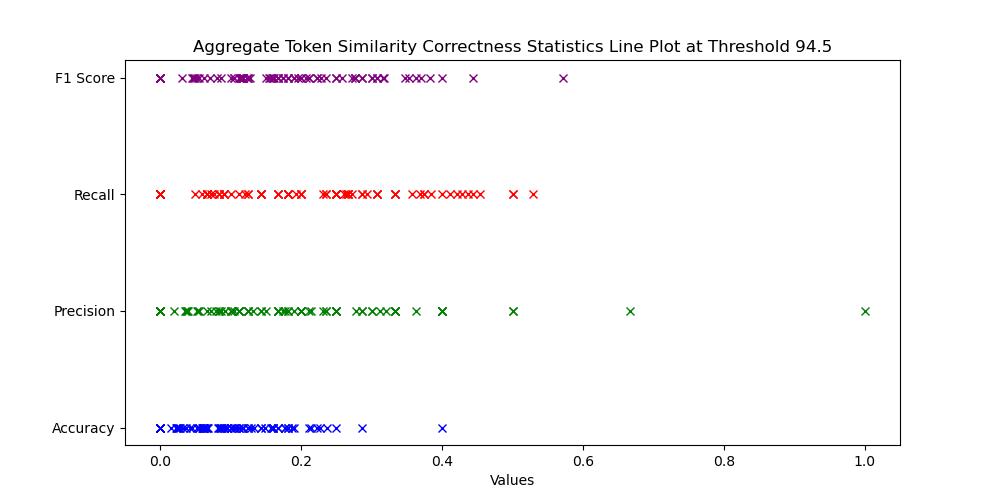
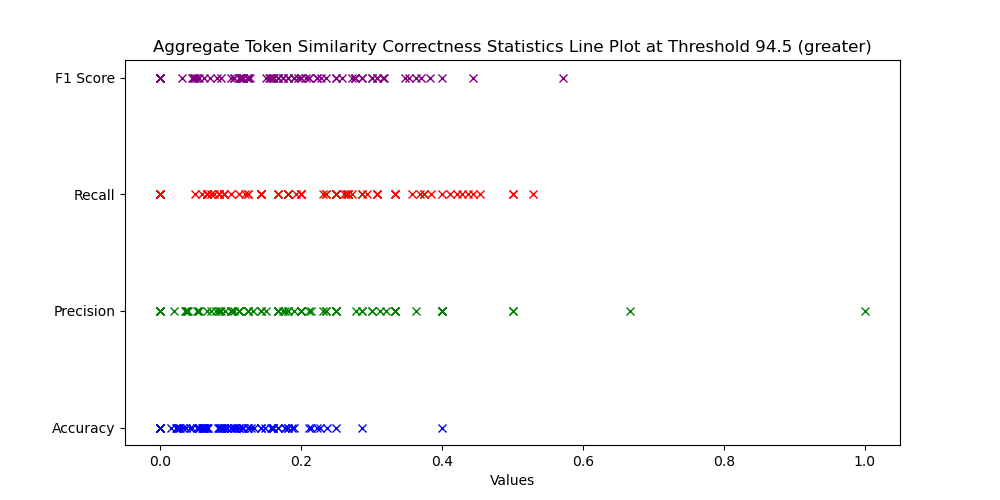
reformatting

Changed region(s): [[0.155, 0.06, 0.868, 0.12]]

diff --git a/plot_results.py b/plot_results.py
@@ -133,7 +133,7 @@ def plot_token_similarity(alg_num_threshold, alg_direction):
     # Plot box plot
     fig, ax = plt.subplots(figsize=(10, 5))
     ax.bxp(box_plot_data)
-    ax.set_title(f'Aggregate Token Similarity Correctness Statistics Box Plot at Threshold {max_f1_threshold}')
+    ax.set_title(f'Aggregate Token Similarity Correctness Statistics Box Plot at Threshold {max_f1_threshold} ({alg_direction})')
     ax.set_ylabel('Values')
     ax.grid(True, linestyle='--', linewidth=0.5)
     box_plot_filename = os.path.join(PLOT_PATH, f'token_similarity_{alg_num_threshold}_{alg_direction}_box_plot.png')
@@ -166,7 +166,7 @@ def plot_token_similarity(alg_num_threshold, alg_direction):
     ax.set_xlabel('Values')
     ax.set_yticks([1, 2, 3, 4])
     ax.set_yticklabels(['Accuracy', 'Precision', 'Recall', 'F1 Score'])
-    ax.set_title(f'Aggregate Token Similarity Correctness Statistics Line Plot at Threshold {max_f1_threshold}')
+    ax.set_title(f'Aggregate Token Similarity Correctness Statistics Line Plot at Threshold {max_f1_threshold} ({alg_direction})')
     line_plot_filename = os.path.join(PLOT_PATH, f'token_similarity_{alg_num_threshold}_{alg_direction}_line_plot.png')
     plt.savefig(line_plot_filename)
     plt.show()
